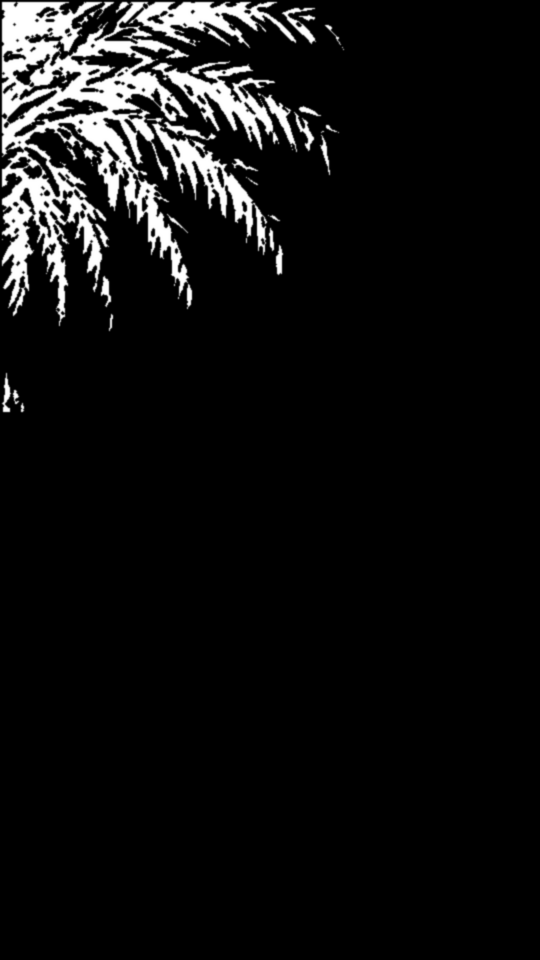
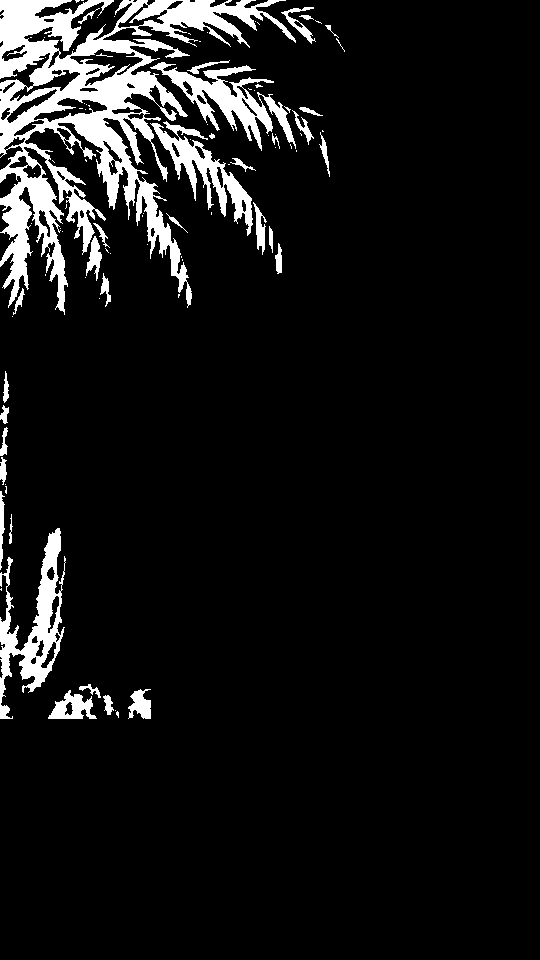
b87: fresh hard-edged sway masks for all seasons (winter added), shader moves only foliage-to-foliage texels; plane 12s first home screen each day / 30s later; iPad caption scale; harness clips

diff --git a/Assets/_Project/Scripts/App/FlockFiveApp.Build87.cs b/Assets/_Project/Scripts/App/FlockFiveApp.Build87.cs
@@ -34,6 +34,27 @@ namespace FlockFive
             yield break;
         }
 
+        static void SaveHalf(string path)
+        {
+            var tex = ScreenCapture.CaptureScreenshotAsTexture();
+            if (tex == null) return;
+            int w = tex.width / 2, h = tex.height / 2;
+            var rt = RenderTexture.GetTemporary(w, h, 0);
+            Graphics.Blit(tex, rt);
+            var prev = RenderTexture.active; RenderTexture.active = rt;
+            var o = new Texture2D(w, h, TextureFormat.RGB24, false);
+            o.ReadPixels(new Rect(0, 0, w, h), 0, 0); o.Apply();
+            RenderTexture.active = prev; RenderTexture.ReleaseTemporary(rt);
+            File.WriteAllBytes(path, o.EncodeToJPG(90));
+            Object.Destroy(o); Object.Destroy(tex);
+        }
+
+        // The fight's peck feedback, fired on a beat so before/after both show hits.
+        IEnumerator PestTaps87()
+        {
+            for (int i = 0; i < 7; i++) { yield return new WaitForSeconds(0.65f); CamShake.PestTap(); }
+        }
+
         IEnumerator Rec87(string dir, float secs)
         {
             if (Directory.Exists(dir)) Directory.Delete(dir, true);
@@ -46,7 +67,7 @@ namespace FlockFive
             {
                 MuteShotAudio();
                 yield return new WaitForEndOfFrame();
-                SaveFrame(dir + "/f" + f.ToString("0000") + ".png");
+                SaveHalf(dir + "/f" + f.ToString("0000") + ".jpg");
             }
             Time.captureDeltaTime = 0f;
             File.WriteAllText(dir + "/fps.txt", "30 unscaledSpan=" + (Time.unscaledTime - u0).ToString("0.00"));
@@ -64,19 +85,50 @@ namespace FlockFive
             int nextKeep = PlayerPrefs.GetInt("flockfive.next", 0);
             if (EditorGameSize != null) EditorGameSize(1536, 2048);
             yield return new WaitForSecondsRealtime(1.2f);
+            // Foliage sway per season, build-86 mask + soft blend vs b87 cutouts.
+            {
+                int animKeep = PlayerPrefs.GetInt(BackgroundMotion.PrefKey, 1); bool animHad = PlayerPrefs.HasKey(BackgroundMotion.PrefKey);
+                PlayerPrefs.SetInt(BackgroundMotion.PrefKey, 1);
+                string[] names = { "home", "summer", "desert", "fall", "winter", "spring" };
+                GardenScene[] sc = { GardenScene.Summer, GardenScene.Summer, GardenScene.Desert, GardenScene.Fall, GardenScene.Winter, GardenScene.Spring };
+                string[] old = { "garden", "garden", "oasis", "fall", null, "spring" };
+                for (int k = 0; k < names.Length; k++)
+                {
+                    int lvl = 0;
+                    for (int L = 0; L < 400; L++) if (GardenSeason.ForLevel(L + 1) == sc[k]) { lvl = L + 2; break; } // past the season reveal
+                    for (int pass = 0; pass < 2; pass++)
+                    {
+                        Texture2D om = null;
+                        if (pass == 0)
+                        {
+                            if (old[k] != null && File.Exists("/tmp/sway86/bg_" + old[k] + "_sway.png"))
+                            { om = new Texture2D(2, 2); om.LoadImage(File.ReadAllBytes("/tmp/sway86/bg_" + old[k] + "_sway.png")); }
+                            FoliageSway.TestMask = om != null ? (Texture)om : Texture2D.whiteTexture;
+                            FoliageSway.TestLegacy = true;
+                        }
+                        if (k == 0) ShowSplash(); else PrepGardenShot(lvl);
+                        yield return new WaitForSecondsRealtime(3f);
+                        yield return Rec87(root + "/sway-" + names[k] + "-" + (pass == 0 ? "before" : "after"), 4f);
+                        FoliageSway.TestMask = null; FoliageSway.TestLegacy = false;
+                    }
+                }
+                if (animHad) PlayerPrefs.SetInt(BackgroundMotion.PrefKey, animKeep); else PlayerPrefs.DeleteKey(BackgroundMotion.PrefKey);
+            }
+            bool swayOnly = File.Exists("/tmp/flock-five-b87v-swayonly");
             // Sparrow fight at iPad aspect: old punch vs the new crisp tap.
-            for (int pass = 0; pass < 2; pass++)
+            for (int pass = 0; pass < (swayOnly ? 0 : 2); pass++)
             {
                 CamShake.LegacyPestPunch = pass == 0;
                 PrepGardenShot(6);
                 yield return new WaitForSecondsRealtime(1.5f);
                 if (_garden.Feeders != null && _garden.Root != null)
                     StartCoroutine(SparrowView.Visit(_garden.Feeders, _garden.Root));
+                StartCoroutine(PestTaps87());
                 yield return Rec87(root + "/sparrow-" + (pass == 0 ? "before" : "after"), 5f);
             }
             CamShake.LegacyPestPunch = false;
             // Streak popup: tap Collect, popup tucks as the coins fly (before = old hold).
-            for (int pass = 0; pass < 2; pass++)
+            for (int pass = 0; pass < (swayOnly ? 0 : 2); pass++)
             {
                 StreakTuckOnFly = pass == 1;
                 int streakKeep = PlayerPrefs.GetInt("flockfive.streak", 0);

diff --git a/Assets/_Project/Scripts/App/FlockFiveApp.Plane.cs b/Assets/_Project/Scripts/App/FlockFiveApp.Plane.cs
@@ -15,7 +15,7 @@ namespace FlockFive
         // same burst helpers and point tables.
         const string UsaPlaneDayKey = "flockfive.plane.day";
         public const float PlaneIdleDelay = 15f; // legacy
-        // b87: first-ever home screen flies after 12s idle; later visits after 30s.
+        // b87: first home screen each day flies after 12s idle; later home screens that day after 30s.
         public const float PlaneIdleFirst = 12f;
         public const float PlaneIdleLater = 30f;
         public const string PlaneFirstKey = "flockfive.plane.first";
@@ -43,6 +43,7 @@ namespace FlockFive
         static int _usaTodayStamp = -1;
         static int _usaDoneStamp = -2;
         float _usaIdle;
+        bool _usaVisitFlown;
         float _usaU = -1f;
         float _fwClock = -1f;
         float _fwDuck;
@@ -150,6 +151,7 @@ namespace FlockFive
             if (UsaPlaneBlocked())
             {
                 _usaIdle = 0f;
+                _usaVisitFlown = false; // left the home screen: the next home screen is a new visit
                 return;
             }
             if (_usaForce)
@@ -159,9 +161,12 @@ namespace FlockFive
                 return;
             }
             _usaIdle += dt;
-            if (_usaIdle < PlaneIdleFor(PlayerPrefs.GetInt(PlaneFirstKey, 0) == 1)) return;
+            if (_usaVisitFlown) return;
+            // b87: first home screen of the day flies after 12s idle; later home screens
+            // that day after 30s. The day key resets it each calendar day.
+            if (_usaIdle < PlaneIdleFor(UsaFlownToday())) return;
             _usaIdle = 0f;
-            if (UsaFlownToday()) return;
+            _usaVisitFlown = true;
             BeginUsaPlane();
         }
 

diff --git a/Assets/_Project/Scripts/App/FoliageSway.cs b/Assets/_Project/Scripts/App/FoliageSway.cs
@@ -34,7 +34,7 @@ namespace FlockFive
                 case GardenScene.Desert: return "SwayMasks/bg_oasis_sway";
                 case GardenScene.Fall: return "SwayMasks/bg_fall_sway";
                 case GardenScene.Spring: return "SwayMasks/bg_spring_sway";
-                case GardenScene.Winter: return null;
+                case GardenScene.Winter: return "SwayMasks/bg_winter_sway";
                 default: return "SwayMasks/bg_garden_sway";
             }
         }
@@ -105,6 +105,8 @@ namespace FlockFive
         // Tests/clips: a fixed shader time (seconds, > 0) and a forced mask; 0 / null = live.
         public static float TestTime;
         public static Texture TestMask;
+        public static bool TestLegacy; // clips only: the build-86 soft blend for a before clip
+        static readonly int LegacyId = Shader.PropertyToID("_SwayLegacy");
         public void PushForTest() { if (_on) Push(); }
 
         void LateUpdate()
@@ -121,6 +123,7 @@ namespace FlockFive
             _block.SetVector(WipeId, _wipe);
             var mk = TestMask != null ? TestMask : _mask;
             if (mk != null) _block.SetTexture(MaskId, mk);
+            _block.SetFloat(LegacyId, TestLegacy ? 1f : 0f);
             bool move = BackgroundMotion.On;
             if (!move)
             {

diff --git a/Assets/_Project/Scripts/App/FlockFiveApp.Lesson.cs b/Assets/_Project/Scripts/App/FlockFiveApp.Lesson.cs
@@ -46,7 +46,9 @@ namespace FlockFive
         public static int LessonCaptionFloor(float screenW, float screenH)
         {
             float h = screenH > 2f ? screenH : CaptionFloorPhoneH;
-            int floor = Mathf.RoundToInt(CaptionFloorPhonePx * (h / CaptionFloorPhoneH));
+            // b87: wide screens (iPad) ease the caption down with the shared device scale.
+            float tab = screenW > 2f && screenH > 2f ? DeviceFit.Ui(screenW, screenH) / Mathf.Max(screenH / 720f, 1f) : 1f;
+            int floor = Mathf.RoundToInt(CaptionFloorPhonePx * (h / CaptionFloorPhoneH) * tab);
             if (floor < 1) floor = 1;
             int old = CaptionPx(CaptionFloorRef);
             if (floor < old) floor = old;

diff --git a/Assets/_Project/Scripts/App/FlockFiveApp.Coach.cs b/Assets/_Project/Scripts/App/FlockFiveApp.Coach.cs
@@ -3193,7 +3193,7 @@ namespace FlockFive
             if (_bandContent == null) _bandContent = new GUIContent();
             _bandContent.text = text;
             float w = Screen.width;
-            int hi = Mathf.Max(22, Mathf.RoundToInt(44f * Mathf.Max(1f, Screen.height / 720f) * 0.62f));
+            int hi = Mathf.Max(22, Mathf.RoundToInt(44f * DeviceFit.Ui() * 0.62f));
             int keep = st.fontSize; bool wrap = st.wordWrap;
             st.wordWrap = true;
             float th = 0f;
